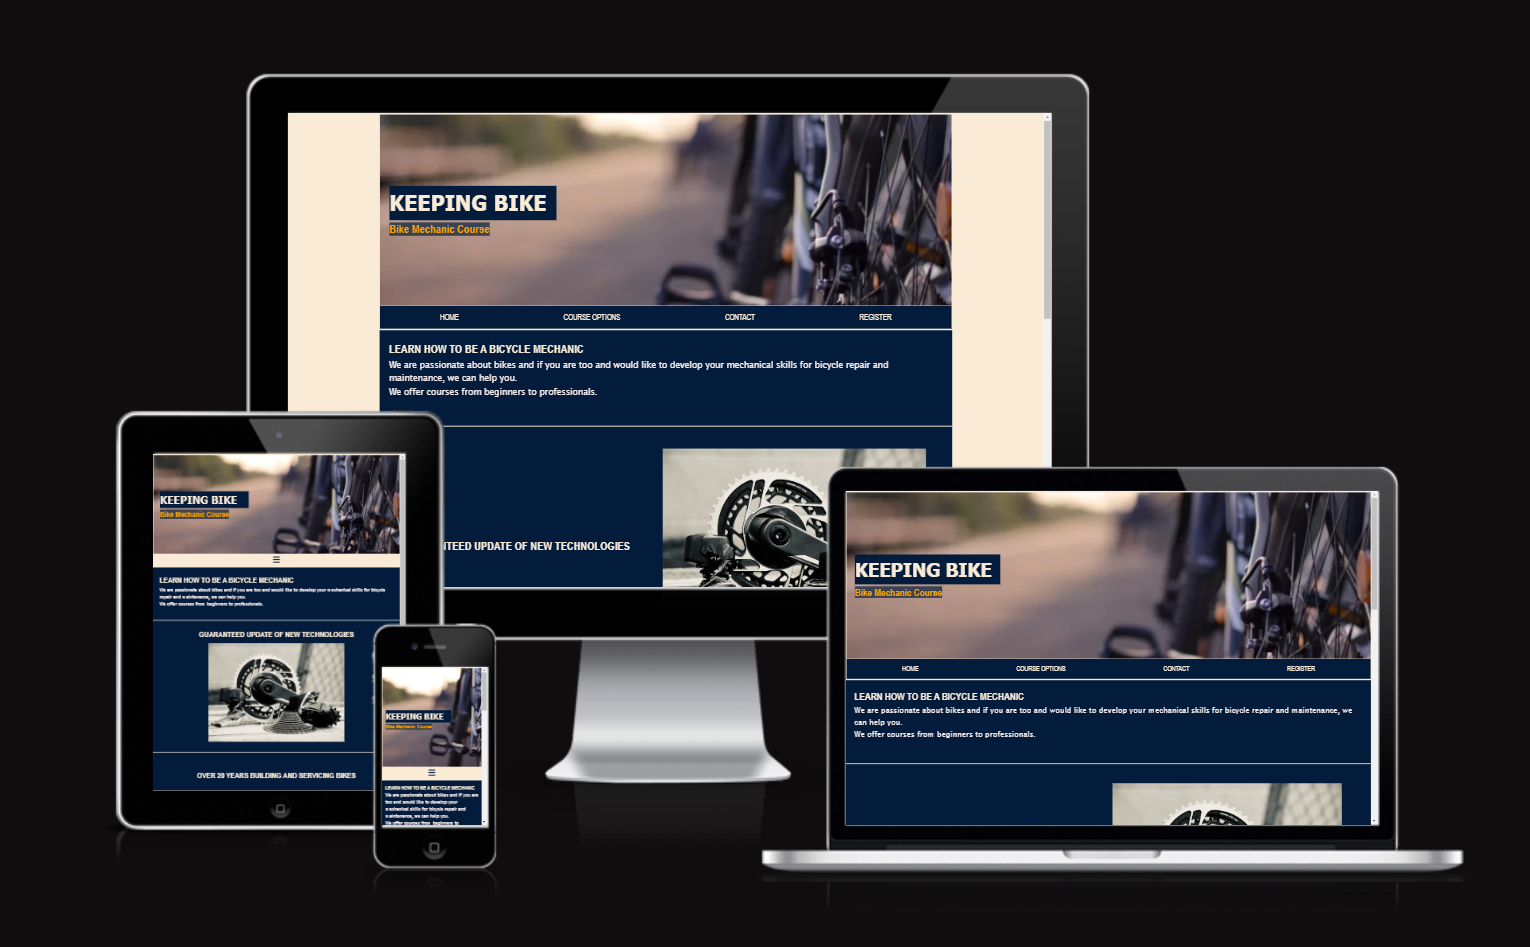
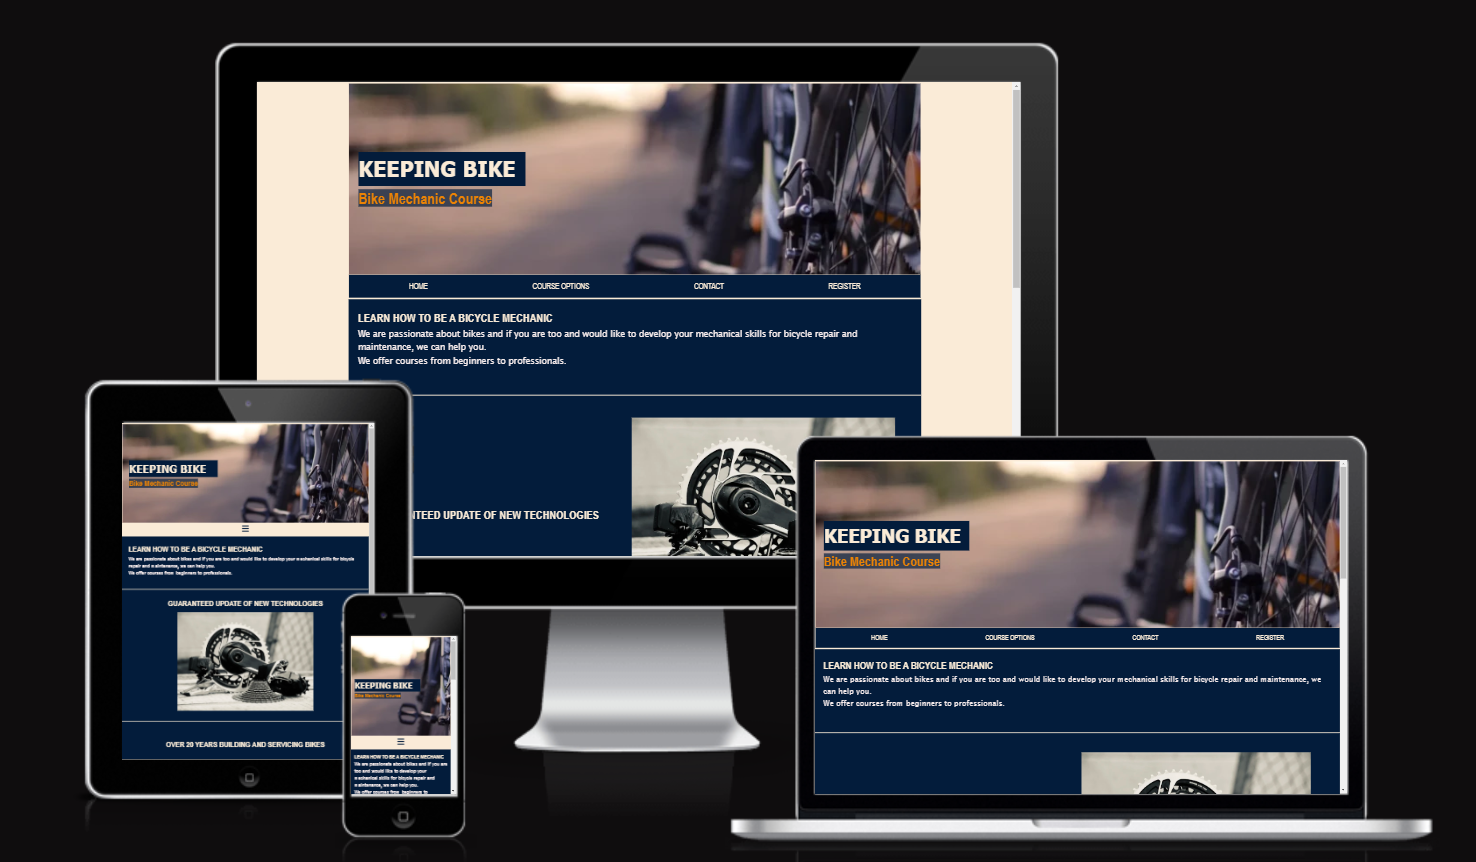
update screnshots 01, 02 e 08 and add main courses.html information in README

diff --git a/README.md b/README.md
@@ -71,7 +71,8 @@ The link near the end of the main section directs users to the registration page
 ![CourseMain](doc/screenshots/screenshot09.png)  
 
 To finish the main part of this page we find the contact information.  
+Initially I had placed the contact section on the first page, but according to mentor David's guidance (because of the menu layout I created), it was better to change it to the courses page.  
 The social media footer remains on this page near the contact section as they are also forms of contact.  
 
-![CourseMainFooter](assets/images/Screenshot%202025-01-10%20163810.png)  
+![CourseMainAndFooter](assets/images/Screenshot%202025-01-10%20163810.png)  
 
